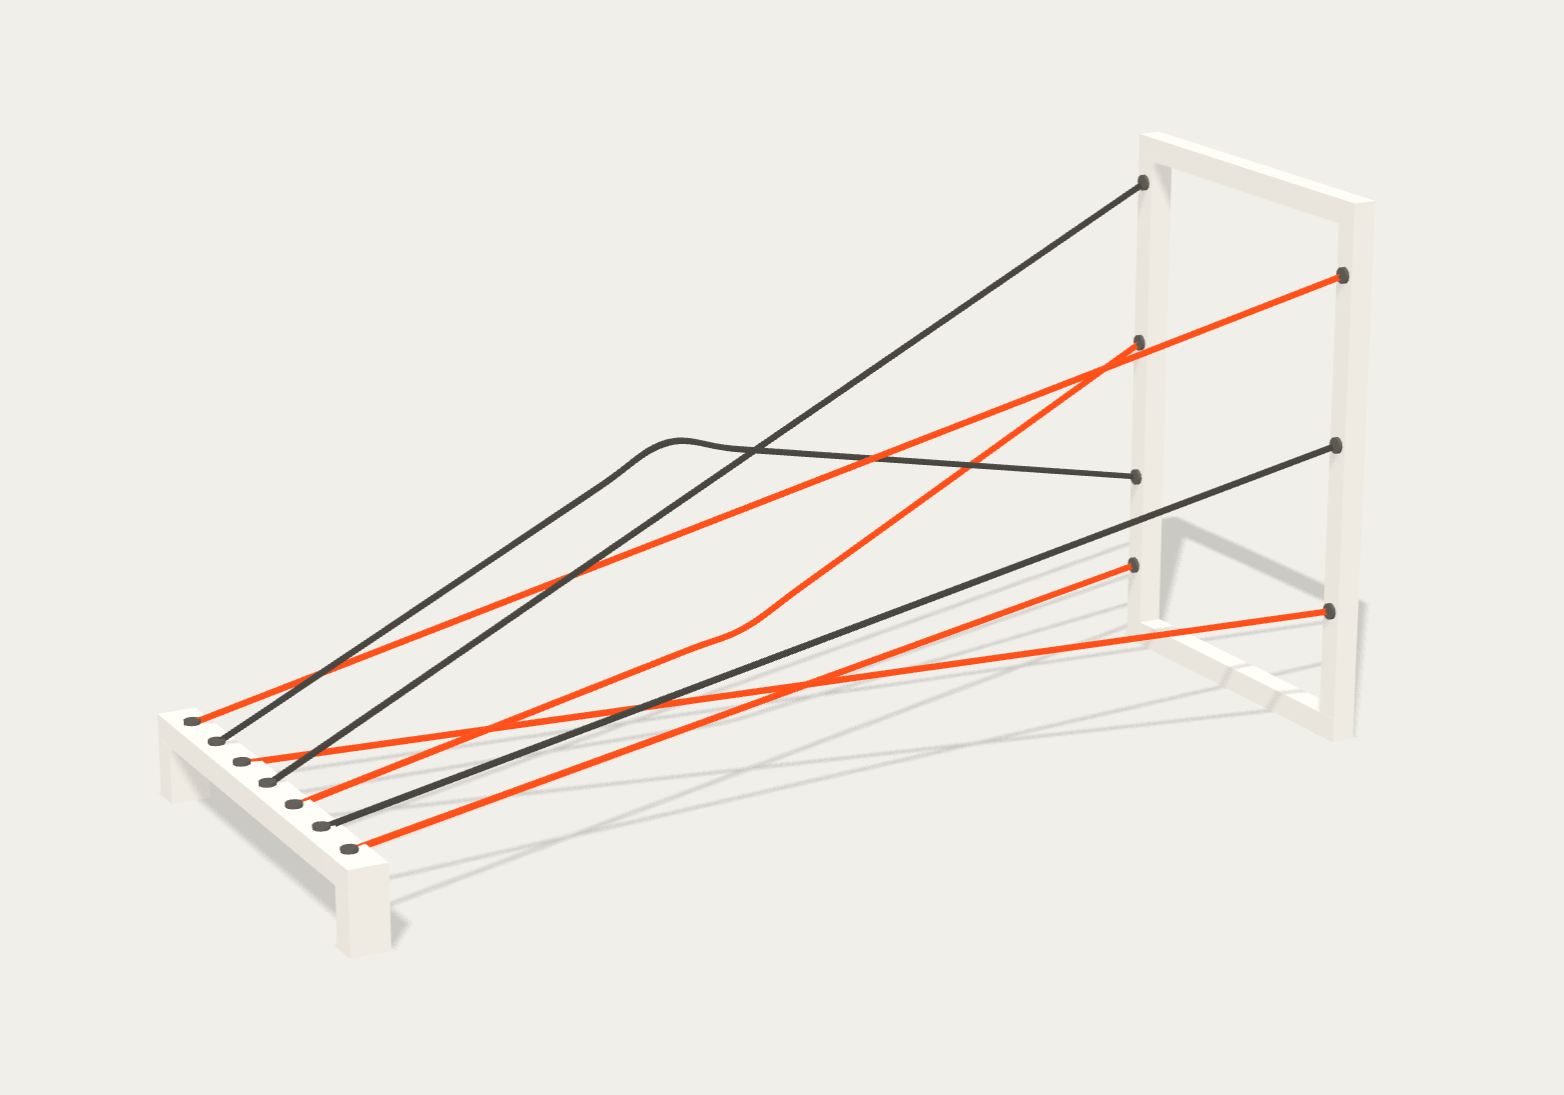
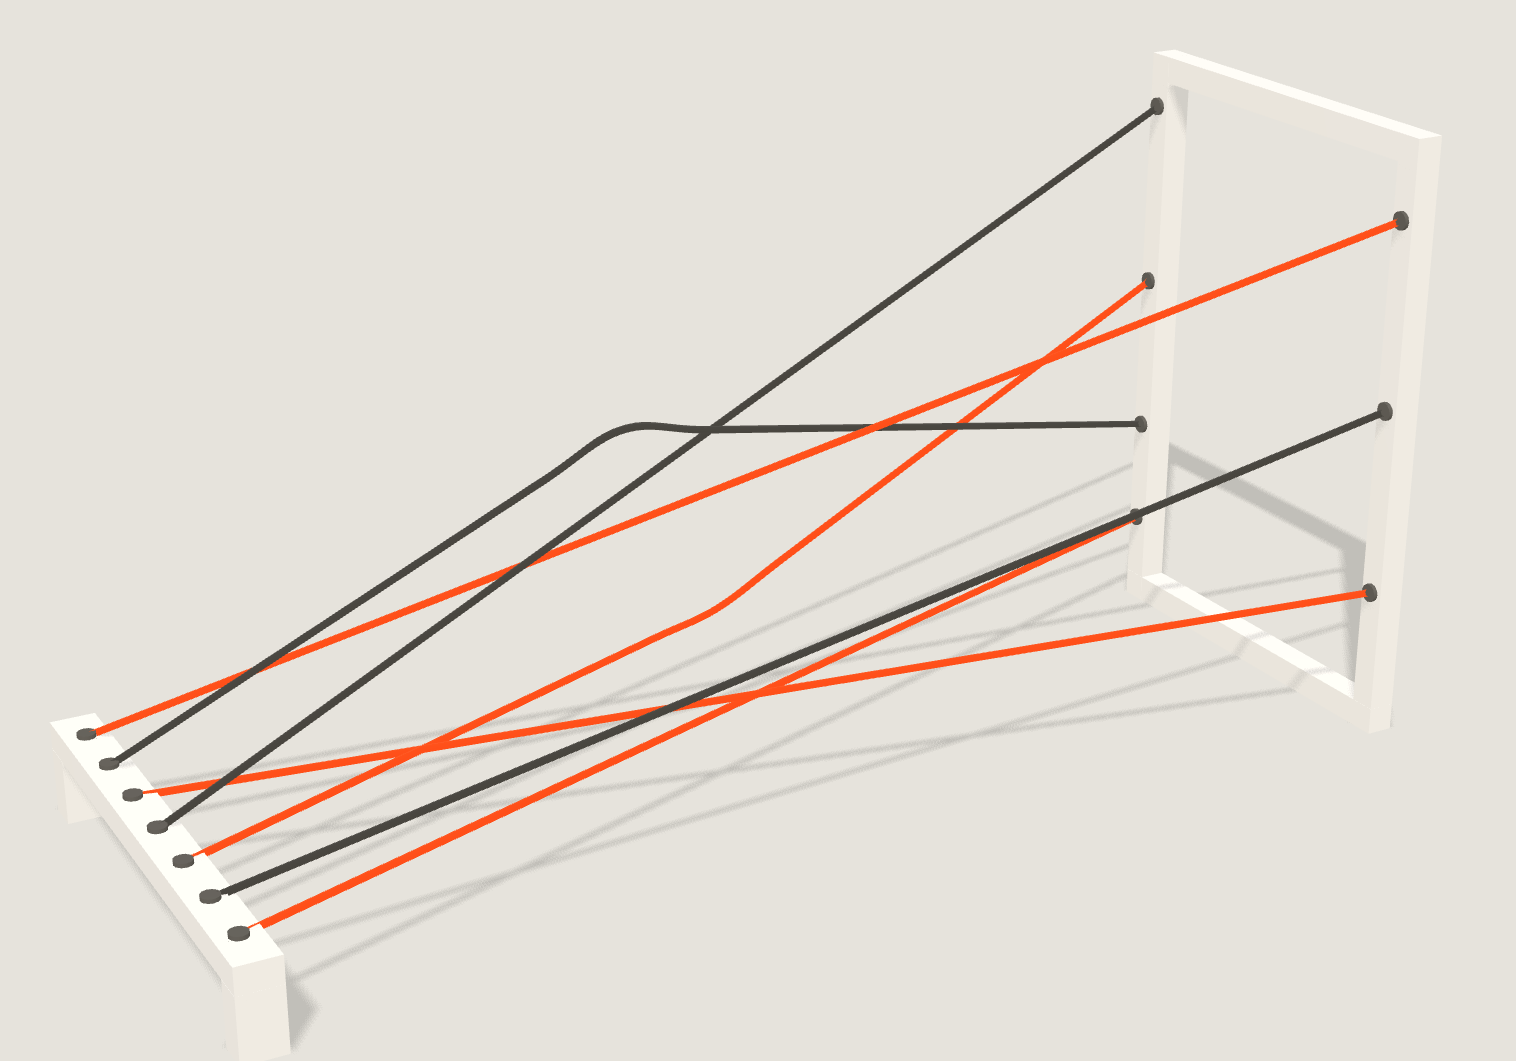
feat: double diamond marker and denser layout on « Ma démarche »
- Double diamond symbol on the stage's bottom line and in each step,
  with the current half highlighted (open / narrow, twice).
- The sculpture sits on a tinted plate that reaches the screen edge,
  is framed larger, and carries a caption for the current shape.
- Each step ends with a project card (thumbnail, proof, link).

Claude-Session: https://claude.ai/code/session_019VTKE5jWZpUNpPL3bVsncU

diff --git a/src/scripts/demarche/stage.ts b/src/scripts/demarche/stage.ts
@@ -33,13 +33,16 @@ interface StageOptions {
   halfWidth?: number;
   halfHeight?: number;
   centerY?: number;
+  /** Marge de cadrage (1 = au plus juste) et hauteur de la vue, en radians. */
+  fit?: number;
+  elevation?: number;
   /** Suivi discret du pointeur. */
   parallax?: boolean;
   onContextLost?: () => void;
 }
 
 export function createStage(canvas: HTMLCanvasElement, options: StageOptions = {}): Stage {
-  const { halfWidth = 2.75, halfHeight = 1.5, centerY = 0.95, parallax = true, onContextLost } = options;
+  const { halfWidth = 2.75, halfHeight = 1.5, centerY = 0.95, fit = 1.12, elevation = 0.3, parallax = true, onContextLost } = options;
 
   const renderer = new THREE.WebGLRenderer({ canvas, antialias: true, alpha: true, powerPreference: 'low-power' });
   renderer.setPixelRatio(Math.min(window.devicePixelRatio || 1, 2));
@@ -83,14 +86,14 @@ export function createStage(canvas: HTMLCanvasElement, options: StageOptions = {
 
   // Vue de trois quarts, légèrement plongeante.
   const AZIMUTH = -0.5;
-  const ELEVATION = 0.3;
+  const ELEVATION = elevation;
 
   function placeCamera() {
     const az = AZIMUTH + pointer.cx * 0.1 + (current > 0 ? current : 0) * 0.035;
     const el = ELEVATION - pointer.cy * 0.05;
     const vFov = THREE.MathUtils.degToRad(camera.fov);
     const hFov = 2 * Math.atan(Math.tan(vFov / 2) * camera.aspect);
-    const dist = Math.max(halfHeight / Math.tan(vFov / 2), halfWidth / Math.tan(hFov / 2)) * 1.12;
+    const dist = Math.max(halfHeight / Math.tan(vFov / 2), halfWidth / Math.tan(hFov / 2)) * fit;
     camera.position.set(
       target.x + dist * Math.sin(az) * Math.cos(el),
       target.y + dist * Math.sin(el),
